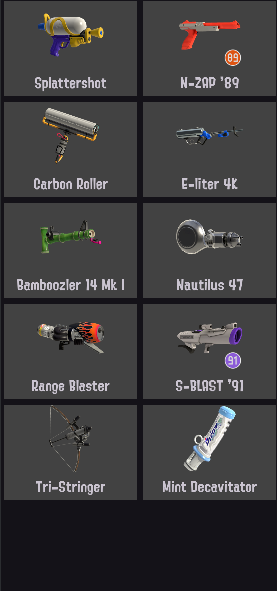
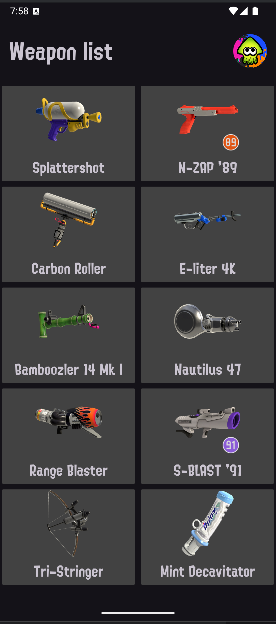
docs: updated screenshots and readme

diff --git a/README.md b/README.md
@@ -8,8 +8,10 @@ Showcases: API integration, clean modular structure, custom fonts, Firebase Auth
 ### 🚀 App Showcase
 <div align="center">
   <img src="docs/screenshot_splash.png" alt="Splash Screen" width="200" style="margin: 10px;" />
+ <img src="docs/screenshot_login.png" alt="Login" width="200" style="margin: 10px;" />
   <img src="docs/screenshot_list.png" alt="Weapon List" width="200" style="margin: 10px;" />
-  <img src="docs/screenshot_detail.png" alt="Weapon Detail" width="200" style="margin: 10px;" /> </div>
+  <img src="docs/screenshot_detail.png" alt="Weapon Detail" width="200" style="margin: 10px;" />
+</div>
 
 ### 🎯 Features
 - **REST API Consumer**: Fetches and displays a list of weapons from a hosted Apiary endpoint using Retrofit.
@@ -42,42 +44,25 @@ Showcases: API integration, clean modular structure, custom fonts, Firebase Auth
 📂 Project Structure
 ```bash
 SplatoonWeaponsApp/
-├── app/
-│   ├── src/
-│   │   ├── main/
-│   │   │   ├── java/com/tanucode/practica2/
-│   │   │   │   ├── application/
-│   │   │   │   │   └── WeaponsRFAPP.kt        # Custom Application class (initializes singletons, fonts)
-│   │   │   │   ├── auth/
-│   │   │   │   │   └── LoginActivity.kt       # Firebase Auth flow
-│   │   │   │   ├── constants/
-│   │   │   │   │   └── Constants.kt           # API base URL, Firebase constants, etc.
-│   │   │   │   ├── data/
-│   │   │   │   │   ├── WeaponsRepository.kt   # Repository pattern (fetches from API/Room in future)
-│   │   │   │   │   └── remote/
-│   │   │   │   │       ├── RetrofitHelper.kt  # Retrofit instance provider
-│   │   │   │   │       ├── WeaponApi.kt        # Retrofit service interface
-│   │   │   │   │       └── model/              # DTOs: WeaponDto, WeaponDetailDto, WeaponsList
-│   │   │   │   ├── ui/
-│   │   │   │   │   ├── SplashActivity.kt      # Launch screen with custom animations
-│   │   │   │   │   ├── adapters/
-│   │   │   │   │   │   ├── WeaponViewHolder.kt # Binds weapon data to item views
-│   │   │   │   │   │   └── WeaponsAdapter.kt    # RecyclerView Adapter
-│   │   │   │   │   └── fragments/
-│   │   │   │   │       ├── WeaponListFragment.kt   # Shows list of weapons
-│   │   │   │   │       └── WeaponDetailFragment.kt # Shows detailed info on selected weapon
-│   │   │   │   └── utils/
-│   │   │   │       └── Extensions.kt          # Extension functions (e.g., View visibility helpers)
-│   │   │   └── res/
-│   │   │       ├── layout/                    # XML layouts (activity_login.xml, fragment_* etc.)
-│   │   │       ├── drawable/                   # Icons, splash screen, placeholder images
-│   │   │       ├── font/                       # Custom font files
-│   │   │       ├── values/                     # colors.xml, strings.xml, dimensions, styles, themes
-│   │   │       └── xml/                        # backup_rules.xml, data_extraction_rules.xml
-│   └── build.gradle.kts                        # Module-level Gradle config
-├── build.gradle.kts                            # Root Gradle config
-├── settings.gradle.kts                         # Includes modules
-└── README.md                                   # ← You are here
+│
+app/
+└── src/
+    └── main/
+        ├── java/com/tanucode/practica2/
+        │   ├── application/          # Clase Application y arranque
+        │   ├── auth/                 # Login, registro, sesión
+        │   ├── constants/            # Constantes globales
+        │   ├── data/                 # Capa de datos
+        │   │   ├── repository/       # Repositorios
+        │   │   └── remote/           # API, DTOs, Retrofit
+        │   ├── ui/                   # UI layer
+        │   │   ├── adapters/         # ViewHolders, Adapters
+        │   │   └── fragments/        # Pantallas / Fragments
+        │   └── utils/                # Extensiones, LiveData de red
+        └── res/
+            ├── layout/               # XML de pantallas y componentes
+            ├── drawable/
+            └── values/               # Colores, strings, estilos
 ```
 
 ### 🌱 Future Improvements
